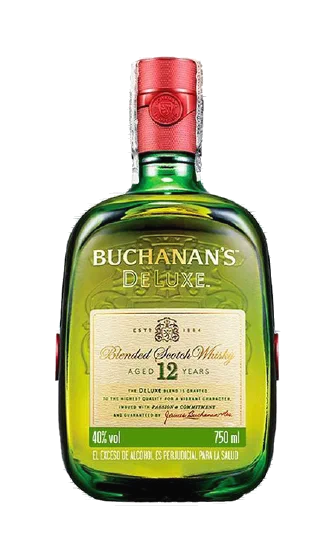
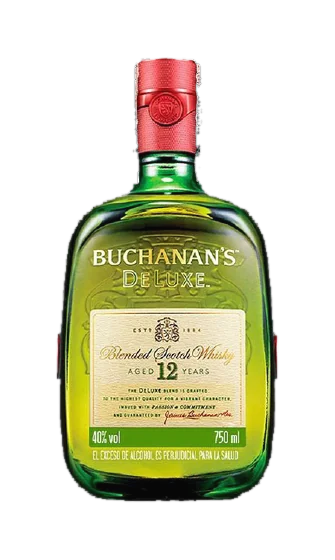
fix(img): limpiar halo gris del recorte de Buchanan's

diff --git a/index.html b/index.html
@@ -27,7 +27,7 @@
 <meta name="apple-mobile-web-app-status-bar-style" content="black">
 <meta name="mobile-web-app-capable" content="yes">
 <link rel="preload" as="image" href="img/hero-black-label.webp" type="image/webp">
-<link rel="preload" as="image" href="img/buchanans.webp" type="image/webp">
+<link rel="preload" as="image" href="img/buchanans.webp?v=2" type="image/webp">
 <link rel="stylesheet" href="styles.css?v=6">
 </head>
 <body>
@@ -40,7 +40,7 @@
     <h2 class="intro-title">Distribuidora<br>a domicilio</h2>
     <p class="intro-sub">Tu licor favorito, sin salir de casa</p>
     <div class="intro-stage">
-      <img class="intro-bottle" src="img/buchanans.webp" alt="Whisky Buchanan’s 12 años" width="420" height="620" fetchpriority="high" decoding="async">
+      <img class="intro-bottle" src="img/buchanans.webp?v=2" alt="Whisky Buchanan’s 12 años" width="420" height="620" fetchpriority="high" decoding="async">
     </div>
     <a class="intro-wa" href="https://wa.me/573160974204?text=Hola%2C%20quiero%20hacer%20un%20pedido%20de%20licores." target="_blank" rel="noopener"><svg viewBox="0 0 24 24" width="22" height="22" aria-hidden="true" fill="currentColor"><path d="M12.04 2C6.6 2 2.2 6.4 2.2 11.84c0 1.74.46 3.44 1.32 4.94L2 22l5.36-1.4a9.8 9.8 0 0 0 4.68 1.19h.01c5.43 0 9.84-4.4 9.84-9.84C21.89 6.4 17.47 2 12.04 2Zm5.76 14.05c-.24.68-1.4 1.3-1.93 1.34-.53.05-1.03.24-3.45-.9-2.42-1.14-3.9-3.66-4.02-3.83-.12-.17-.95-1.32-.95-2.5s.6-1.77.82-2.01c.21-.24.46-.3.61-.3l.44.01c.14 0 .33-.05.51.39.19.46.65 1.6.71 1.72.06.12.1.25.02.4-.09.17-.13.27-.26.42l-.35.4c-.12.12-.24.25-.11.48.13.24.58.96 1.24 1.55.85.75 1.56.99 1.79 1.1.23.12.36.1.5-.06.13-.16.57-.66.72-.89.15-.23.3-.19.5-.12.2.08 1.28.6 1.5.71.22.11.37.17.42.26.05.1.05.55-.19 1.23Z"/></svg> <span>Pedir por WhatsApp aquí</span></a>
     <button class="intro-enter" id="introEnter" type="button">Entrar al sitio web</button>

diff --git a/data.js b/data.js
@@ -61,7 +61,7 @@ var PRODUCTS = [
   { id: 7,  name: "Ron Viejo de Caldas 15",      cat: "ron",         size: "750 ml", price: 171750, tag: "Reserva",  img: "img/ron-caldas-15.webp",      desc: "Gran reserva, para ocasión especial." },
   { id: 9,  name: "Garrafa Caldas 1.75 L",       cat: "ron",         size: "1750 ml", price: 196875, tag: "Compartir", img: "img/garrafa-caldas.webp",    desc: "Rinde para toda la reunión." },
 
-  { id: 11, name: "Buchanan's 12 Años",          cat: "whisky",      size: "750 ml", price: 134558, tag: "Premium",  img: "img/buchanans.webp",          desc: "Deluxe, 12 años." },
+  { id: 11, name: "Buchanan's 12 Años",          cat: "whisky",      size: "750 ml", price: 134558, tag: "Premium",  img: "img/buchanans.webp?v=2",          desc: "Deluxe, 12 años." },
   { id: 14, name: "Black & White",               cat: "whisky",      size: "750 ml", price: 105000, tag: "Clásico",  img: "img/black-white.webp",        desc: "El de siempre, buen precio." },
   { id: 15, name: "Black & White Media",         cat: "whisky",      size: "375 ml", price: 48000,  tag: "Media",    img: "img/black-white-media.webp",  desc: "Media botella." },
   { id: 12, name: "Jack Daniel's Nº7",           cat: "whisky",      size: "750 ml", price: 162000, tag: "Destacado", img: "img/jack-daniels-7.webp",     desc: "Tennessee whiskey." },
